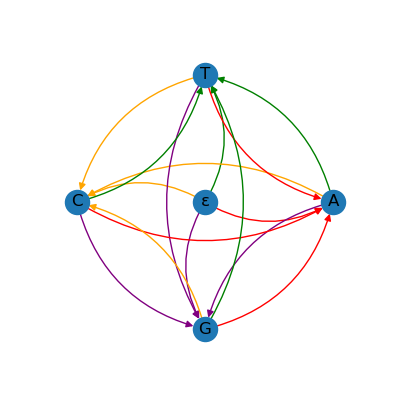
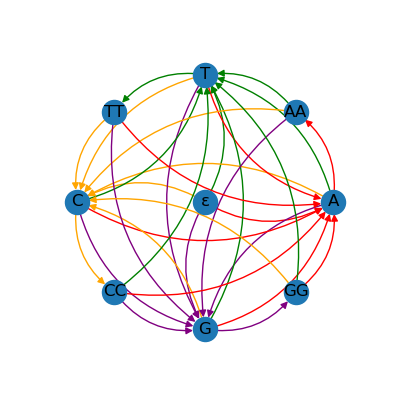
Q１酒精

diff --git a/Q1/draw_graph.py b/Q1/draw_graph.py
@@ -28,13 +28,19 @@ for i, node in enumerate(nodes_2):
       tmp_p.update({node: (2*np.cos(i*2*np.pi/len(nodes_2)), 2*np.sin(i*2*np.pi/len(nodes_2)))})
 pos[2] = tmp_p
 
-pos[3] = {'ε': (0.0, 0.0),
-       'A': (1.0, 0.0),
-       'T': (0.0, 1.0),
-       'C': (-1.0, 0.0),
-       'G': (0.0, -1.0)}
 
 
+nodes_3 = ['A', 'AA', 'T', 'TT', 'C', 'CC', 'G', 'GG']
+tmp_p = {'ε': (0.0, 0.0)}
+for i, node in enumerate(nodes_3):
+      tmp_p.update({node: (2*np.cos(i*2*np.pi/len(nodes_3)), 2*np.sin(i*2*np.pi/len(nodes_3)))})
+pos[3] = tmp_p
+
+# pos[3] = {'ε': (0.0, 0.0),
+#        'A': (1.0, 0.0),
+#        'T': (0.0, 1.0),
+#        'C': (-1.0, 0.0),
+#        'G': (0.0, -1.0)}
 
 
 paths = ['1_debruijin.txt', '1_crochemore.txt', '2_debruijin.txt', '2_crochemore.txt']

diff --git a/Q1/cal_capacity.py b/Q1/cal_capacity.py
@@ -1,0 +1,52 @@
+import math
+import numpy as np
+
+# 隣接行列の定義
+A = np.zeros((9,9))
+A[0][1]=1
+A[0][3]=1
+A[0][5]=1
+A[0][7]=1
+A[1][2]=1
+A[1][3]=1
+A[1][5]=1
+A[1][7]=1
+A[2][3]=1
+A[2][5]=1
+A[2][7]=1
+A[3][1]=1
+A[3][4]=1
+A[3][5]=1
+A[3][7]=1
+A[4][1]=1
+A[4][5]=1
+A[4][7]=1
+A[5][1]=1
+A[5][3]=1
+A[5][6]=1
+A[5][7]=1
+A[6][1]=1
+A[6][3]=1
+A[6][7]=1
+A[7][1]=1
+A[7][3]=1
+A[7][5]=1
+A[7][8]=1
+A[8][1]=1
+A[8][3]=1
+A[8][5]=1
+print(A)
+
+# 固有値取得
+A_eig = np.linalg.eig(A)[0]
+print(A_eig)
+
+# 最大固有値
+max_v = 0
+for a_eig in A_eig:
+    if max_v < abs(a_eig):
+        max_v = abs(a_eig)
+print(max_v)
+
+# キャパシティ計算
+print(math.log(max_v, 4))
